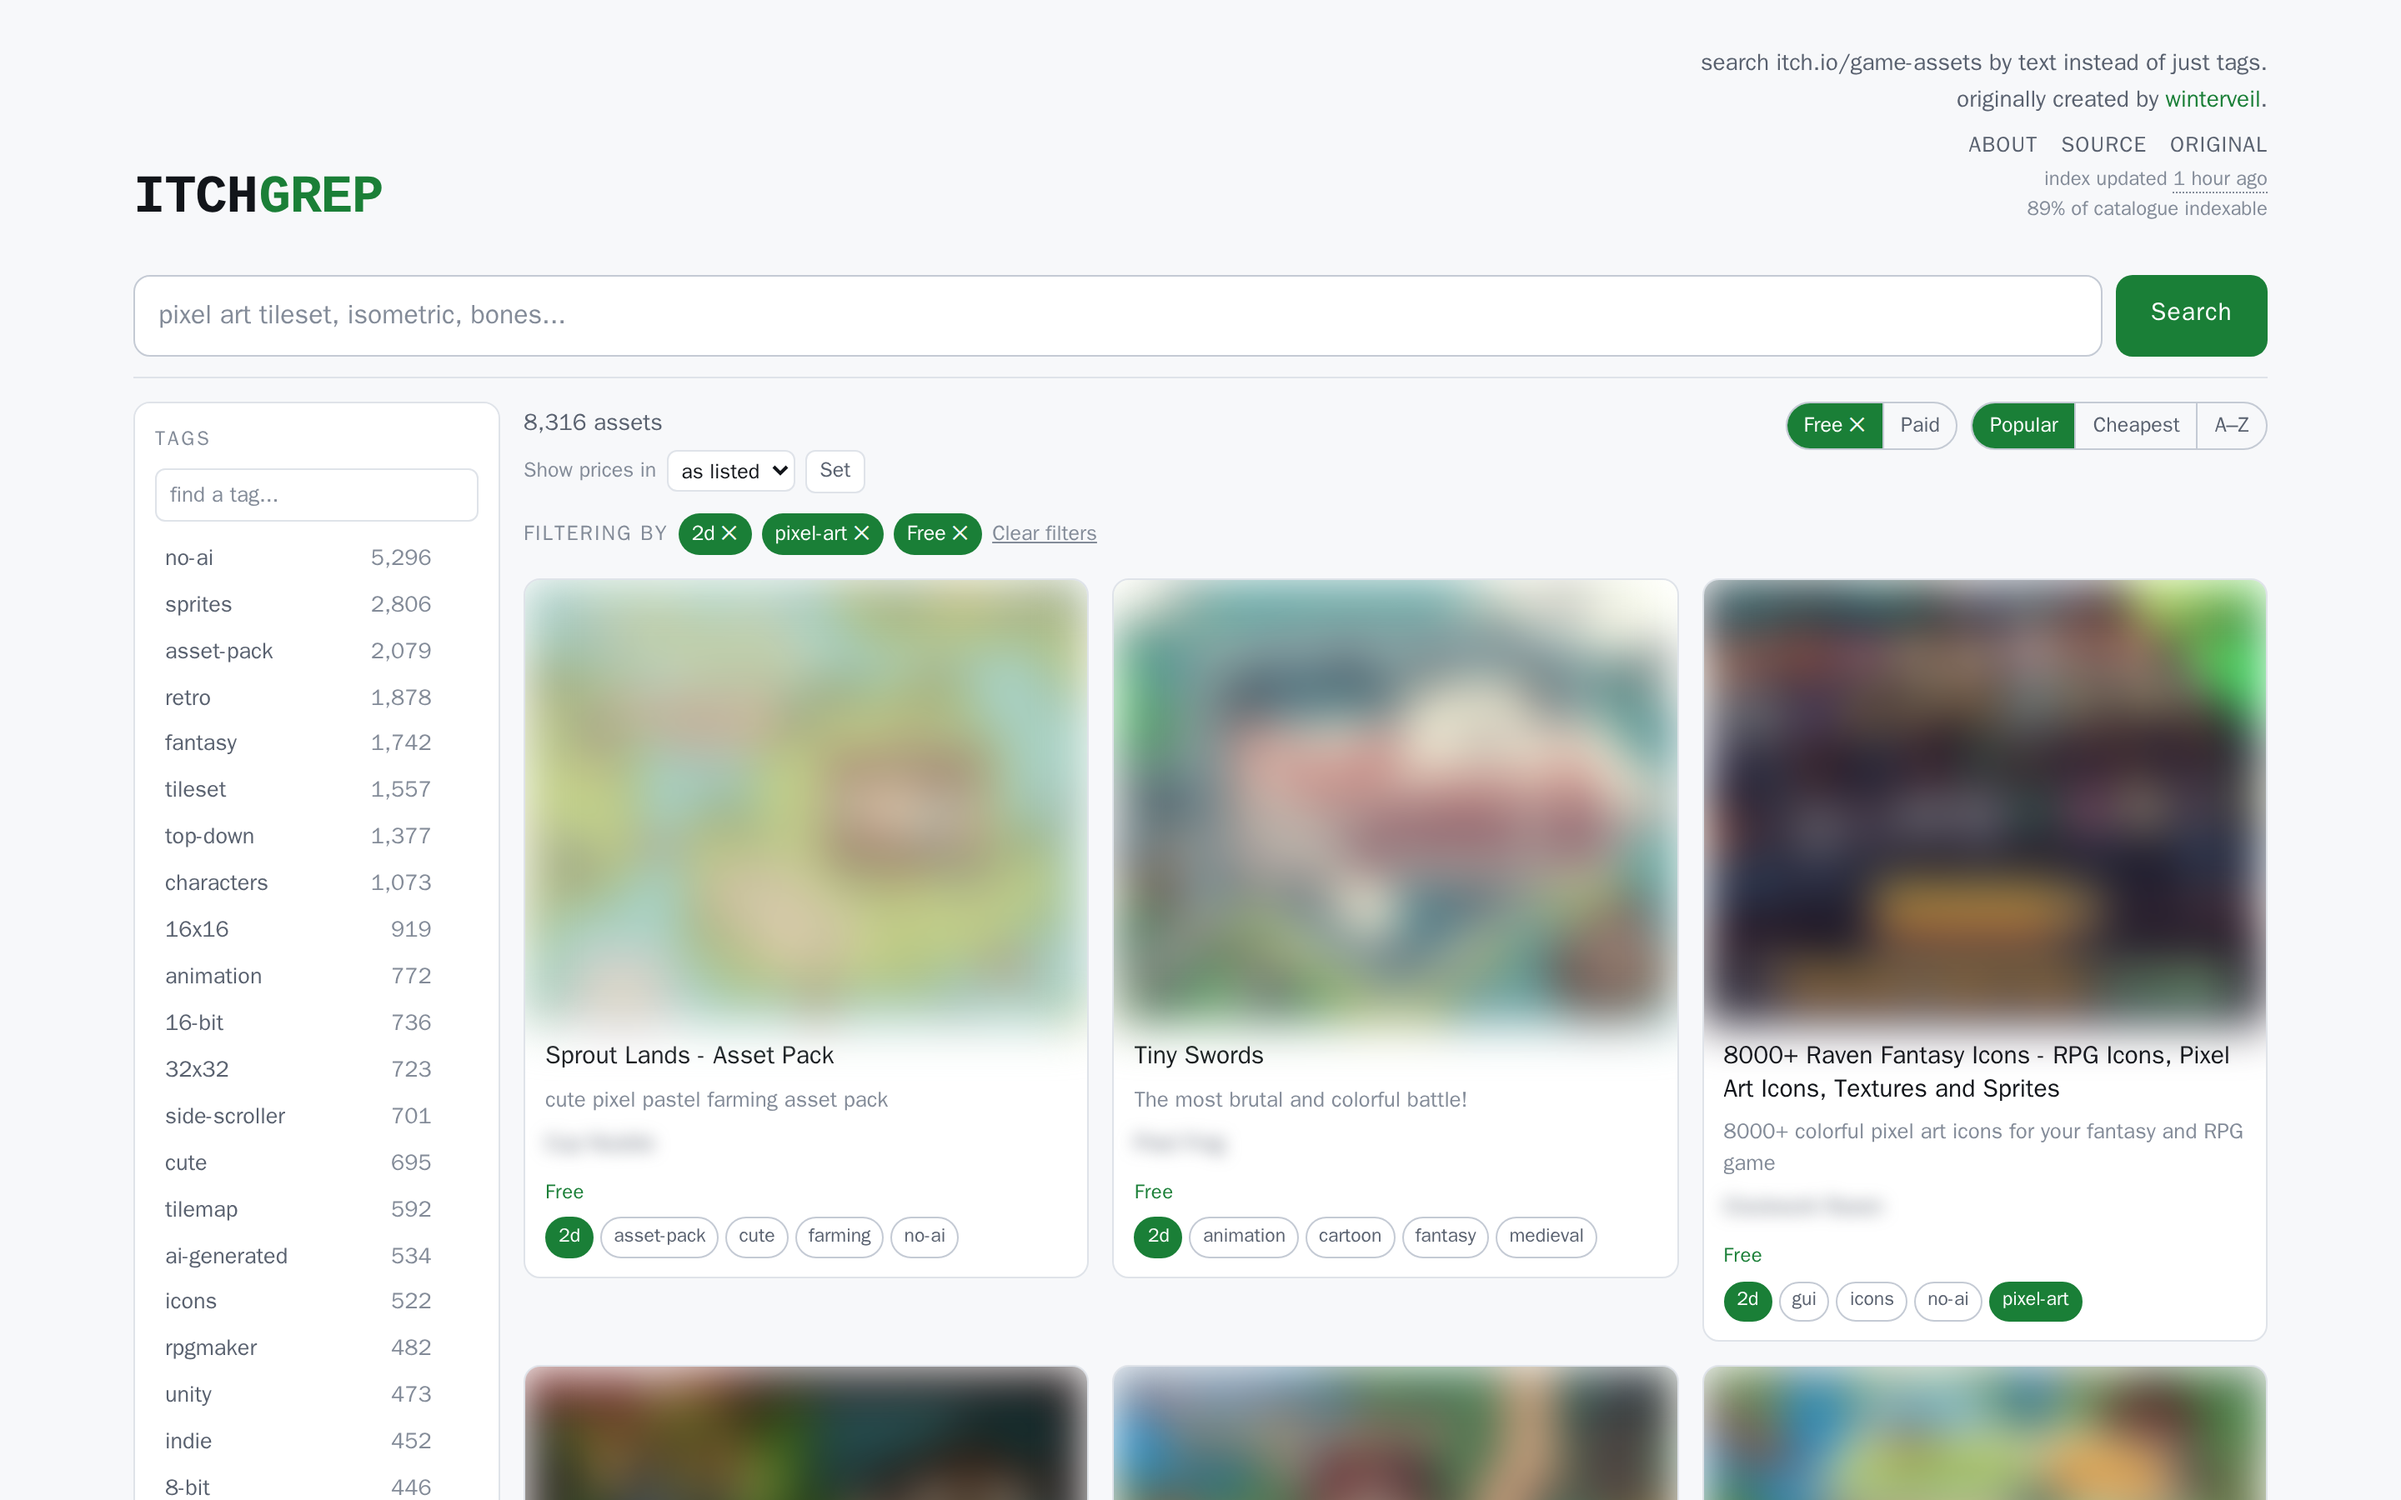
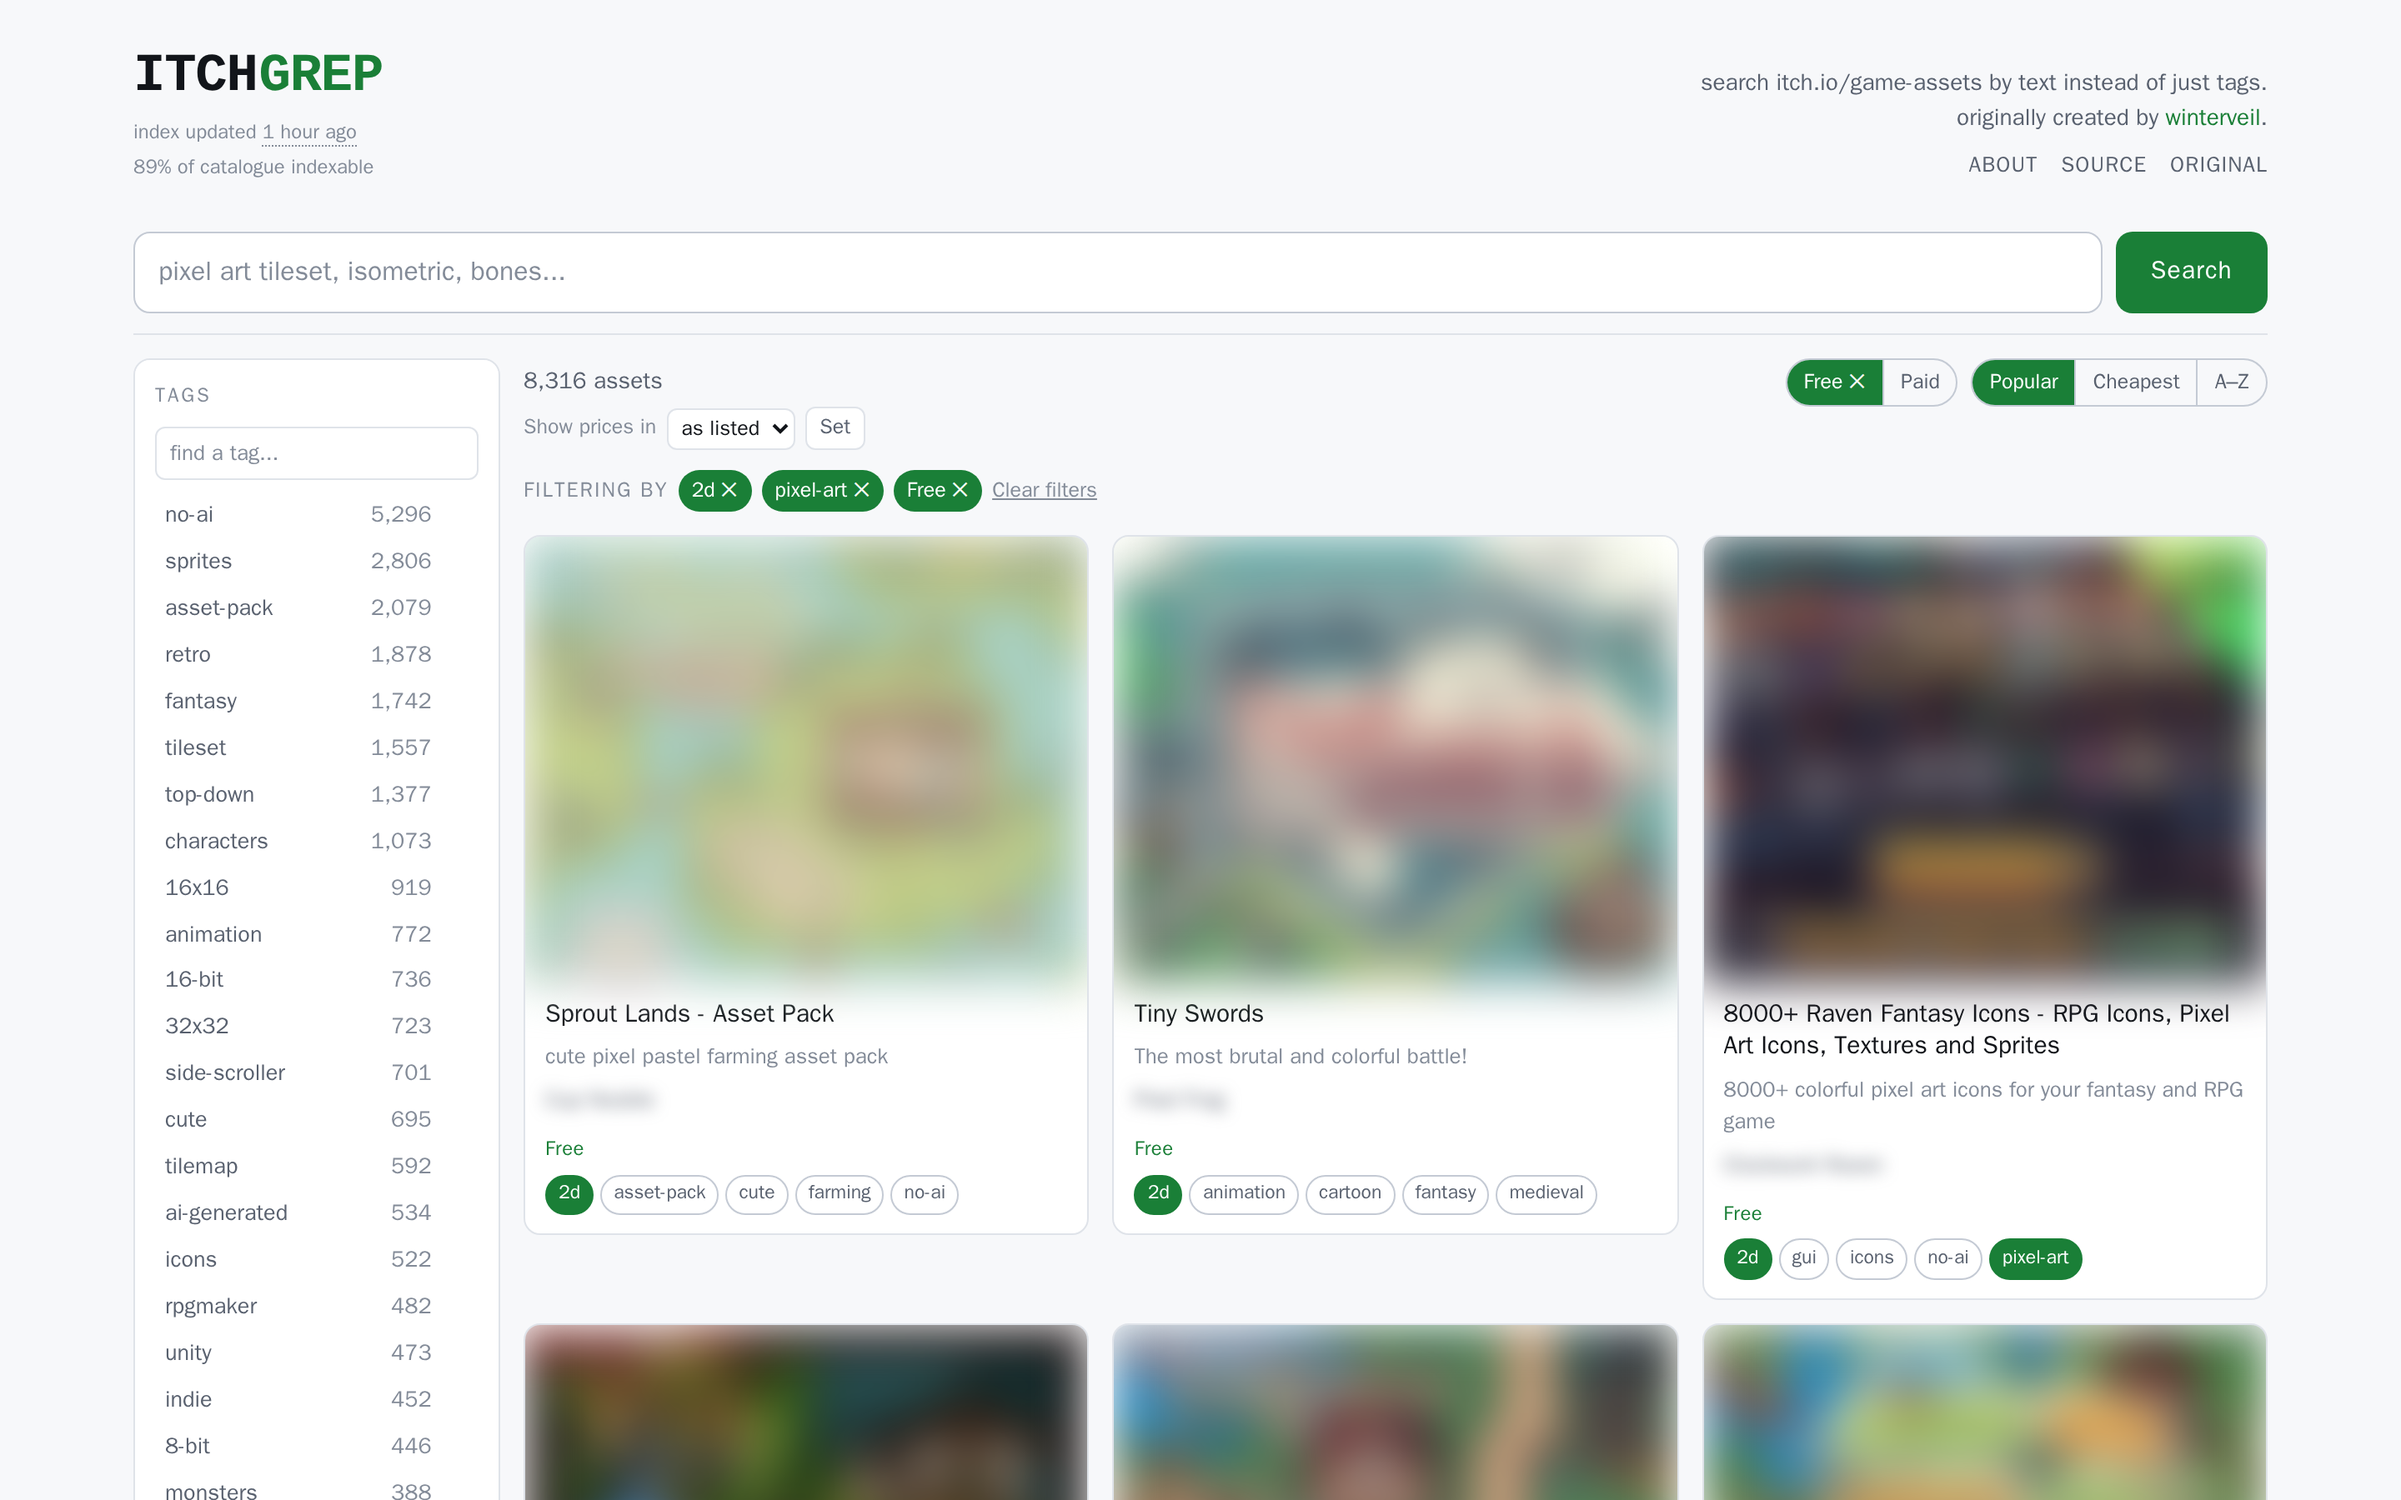
Disclose the fork's AI authorship, move the index age under the wordmark
The age and coverage now sit beneath the logo they describe rather than
trailing the nav links. Exact times are rewritten to the reader's own zone
in the browser; the UTC form stays in the markup for when there is no
browser to ask. Drops the skip link.

diff --git a/internal/web/static/app.css b/internal/web/static/app.css
@@ -107,24 +107,6 @@ a:hover {
   white-space: nowrap;
 }
 
-/* Off-screen until focused, so it costs sighted users nothing and gives
-   keyboard users a way past the masthead on every page. */
-.skip-link {
-  position: absolute;
-  left: -9999px;
-  top: 0;
-  z-index: 100;
-  padding: 0.8rem 1.2rem;
-  background: var(--accent);
-  color: var(--accent-contrast);
-  font-weight: 600;
-  border-radius: 0 0 4px 0;
-}
-
-.skip-link:focus {
-  left: 0;
-}
-
 /* ---------------------------------------------------------------- header  */
 
 .masthead {
@@ -134,6 +116,12 @@ a:hover {
   justify-content: space-between;
   gap: 1rem 2rem;
   padding: 2.8rem 0 1.8rem;
+}
+
+/* The wordmark and, beneath it, what the index behind it is: how recent, and
+   how complete. */
+.masthead-brand {
+  min-width: 0;
 }
 
 /* The wordmark is the page's h1; the heading element carries the semantics and
@@ -215,7 +203,7 @@ a:hover {
 /* The age of the index. Faint by default - it is a caveat, not a headline -
    and only allowed to compete for attention once it is reporting a problem. */
 .index-age {
-  margin-top: 0.6rem;
+  margin: 0.8rem 0 0;
   font-size: 1.2rem;
   color: var(--text-faint);
 }

diff --git a/README.md b/README.md
@@ -25,6 +25,18 @@ original lives at
 repository is a fork, licensed as the original under GPL-3.0, and is not
 operated by the original author.
 
+## Disclaimer
+
+This fork was created, updated and "enhanced" using
+[Claude Code](https://claude.com/claude-code), Anthropic's coding agent. Almost
+everything added on top of winterveil's original — the crawl planner, the search
+and filtering, the UI, the tests and this README — was written by it under human
+direction and review.
+
+That is stated plainly rather than buried: it is running in production and the
+tests pass, but it is agent-written code, and you should read it before you
+trust it with anything of yours.
+
 ## What you can search
 
 A query matches four fields at once, weighted by how much a hit in each is
